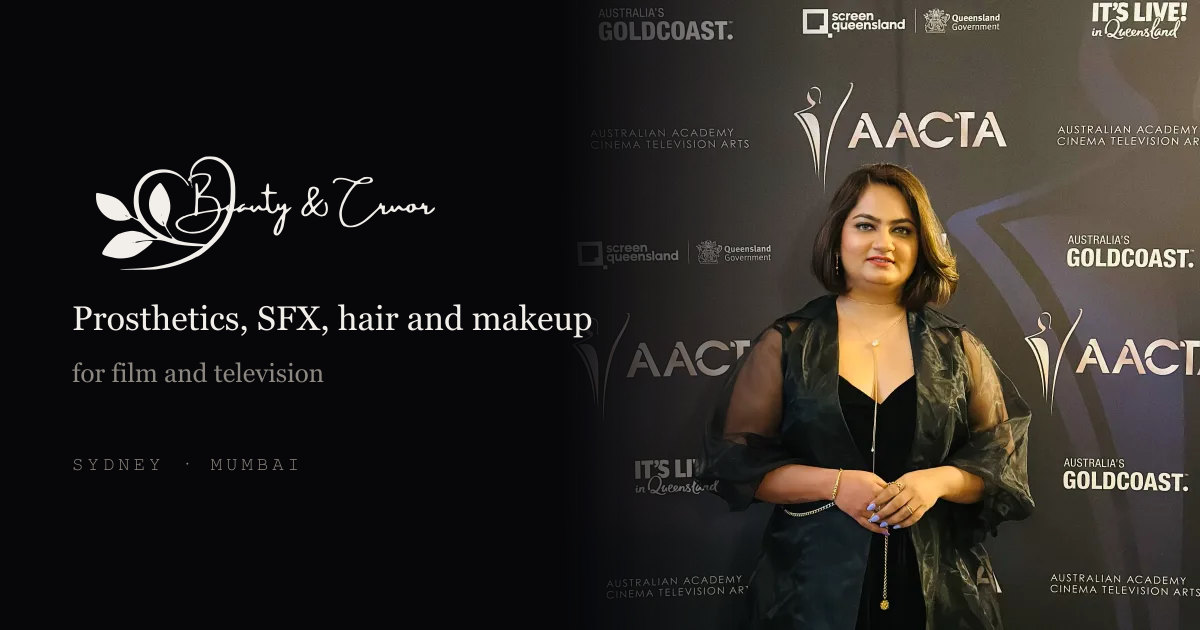
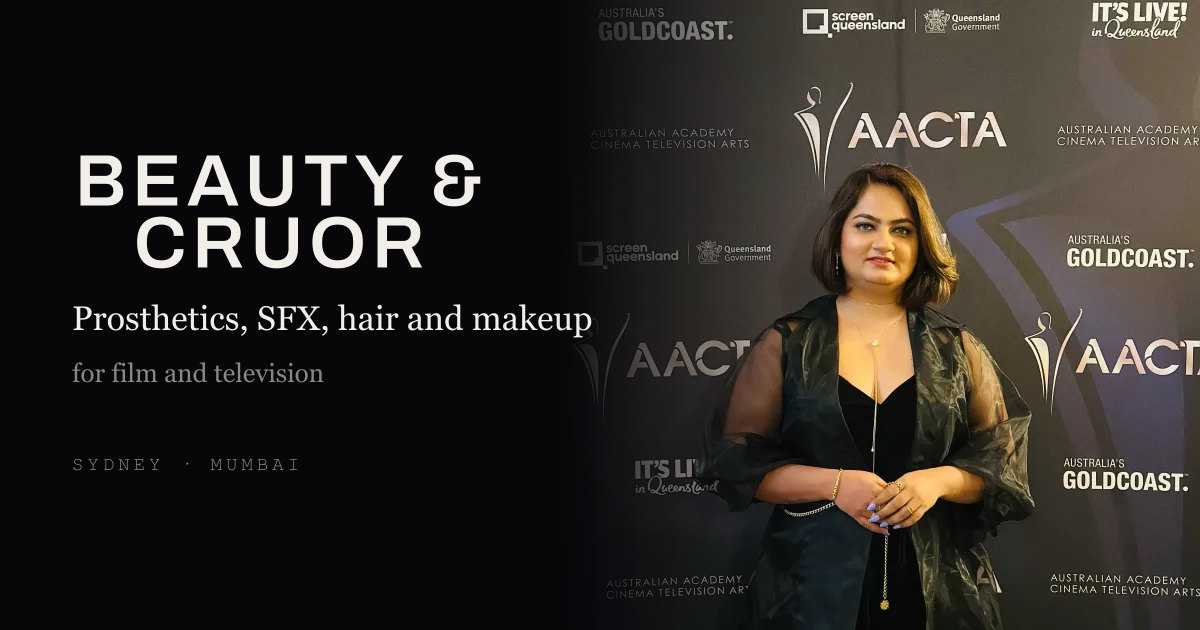
Set the name in type, and retire the script signature
She asked for the logo to be recreated. Both design reviews had already said
the same thing independently: a botanical script signature reads as a wellness
brand against burns, trauma and creature work — the mark was arguing with the
portfolio.

It also could not do the job. At header size the script was 98px of
illegible flourish; rendered side by side at 30px it is a smudge.

"BEAUTY &" over "CRUOR", set in Archivo and converted to outlines.

WHY TYPE RATHER THAN A NEW DRAWING

Provenance. A logo is the one asset that has to be unambiguously hers, and
this project has already been burned by an asset that turned out not to be
licensable. Archivo is Open Font License, which permits outlining and
commercial use outright. A generated mark would have had unsettled copyright
at best — in some jurisdictions purely machine-made work may not be
copyrightable at all, which would mean she could not stop a competitor using
her own mark.

Outlines rather than <text>: the mark is a CSS mask and the source the favicon
is composed from, so it cannot depend on a font being present.

STACKED, BECAUSE THE HEADER DECIDES IT

A single line ran to 7:1 and would have been 273px in a header that has 98.
Stacked it is 3.05:1 against the old 3.26:1 — near enough that the travelling
hero-to-header animation needed no retuning. Measured after the change: hero
219x72, header 30px tall and 91px wide, no console errors.

TWO MARKS, BECAUSE A WORDMARK IS NOT A FAVICON
[…]

Changed region(s): [[0.0617, 0.2413, 0.4008, 0.4222]]

diff --git a/src/components/Logo.tsx b/src/components/Logo.tsx
@@ -7,18 +7,34 @@
  * fetched once and cached across every page.
  *
  * Colour comes from a CSS mask, so the mark takes `currentColor` and works on
- * any ground without shipping a second asset. That also makes it monochrome,
- * which is what both design reviews recommended: the lime leaf reads as a
- * wellness brand against burns and trauma work.
+ * any ground without shipping a second asset.
  *
- * Use `tone="brand"` for the two-colour original where the green is wanted.
+ * THE MARK IS NOW TYPE, NOT A SIGNATURE
+ *
+ * The botanical script it replaced read as a wellness brand against burns and
+ * trauma work — both design reviews said so independently, and she asked for
+ * it to be recreated. It also could not do this job: at header size it was
+ * 98px of illegible flourish.
+ *
+ * "BEAUTY &" over "CRUOR", set in Archivo and converted to outlines. Outlines
+ * rather than <text> because this is a CSS mask and the source the favicon is
+ * composed from: it cannot depend on a font being present, and it has to be
+ * addressable as geometry. Archivo is Open Font License, which permits
+ * outlining and commercial use outright — the mark is unambiguously hers,
+ * which a generated one would not have been.
  */
 import { forwardRef, type CSSProperties } from "react";
+
+/**
+ * The mark's own proportions, from its viewBox. Exported because the OG card
+ * needs the same number, and two hand-copied ratios are how the header ended
+ * up stretching a mark that had been redrawn.
+ */
+export const LOGO_ASPECT = { w: 5756, h: 1890 } as const;
 
 type Props = {
   className?: string;
   style?: CSSProperties;
-  tone?: "current" | "brand";
   title?: string;
   /** Marks the opening mark so <Chrome> can measure and then replace it. */
   "data-hero-mark"?: boolean | "";
@@ -29,16 +45,9 @@ type Props = {
  * is sized and scaled from its own layout box, not the link wrapping it.
  */
 export const Logo = forwardRef<HTMLSpanElement, Props>(function Logo(
-  { className, style, tone = "current", title = "Beauty & Cruor", ...rest },
+  { className, style, title = "Beauty & Cruor", ...rest },
   ref,
 ) {
-  if (tone === "brand") {
-    return (
-      // eslint-disable-next-line @next/next/no-img-element
-      <img src="/brand/logo.svg" alt={title} className={className} width={1067} height={327} {...rest} />
-    );
-  }
-
   return (
     <span
       role="img"
@@ -48,7 +57,7 @@ export const Logo = forwardRef<HTMLSpanElement, Props>(function Logo(
       {...rest}
       style={{
         display: "block",
-        aspectRatio: "1067 / 327",
+        aspectRatio: `${LOGO_ASPECT.w} / ${LOGO_ASPECT.h}`,
         backgroundColor: "currentColor",
         WebkitMaskImage: "url(/brand/logo-mask.svg)",
         maskImage: "url(/brand/logo-mask.svg)",
